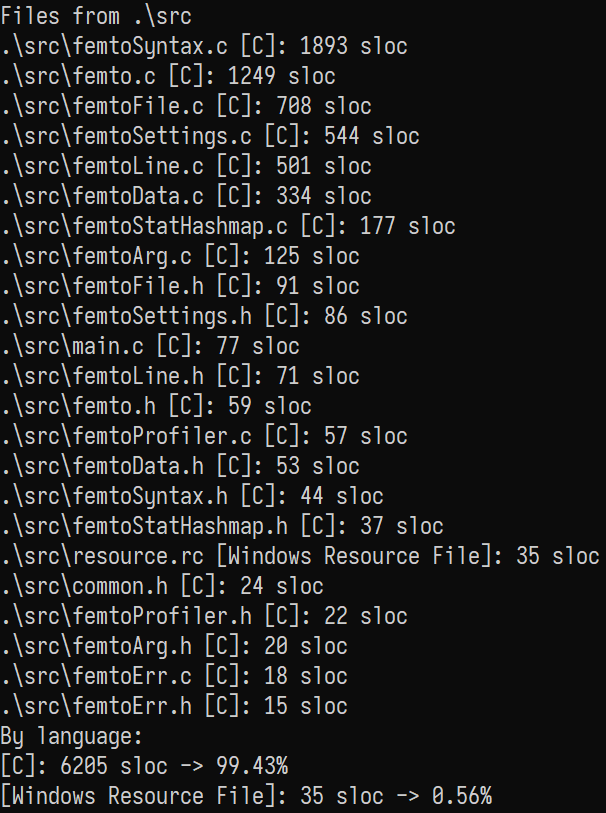
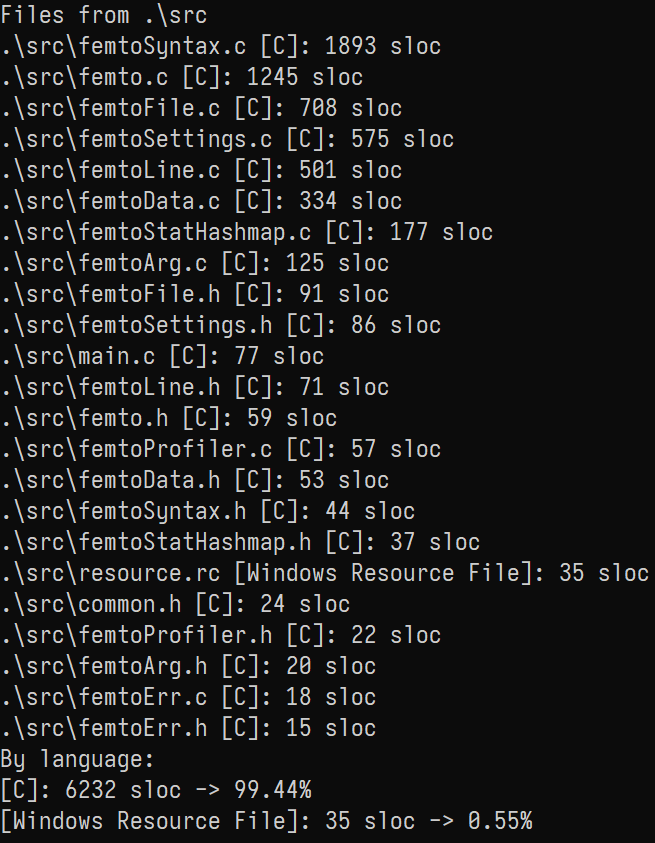
Add background color support

Changed region(s): [[0.0, 0.0, 0.8317, 1.0], [0.8614, 0.6458, 1.0, 0.7073], [0.6832, 0.246, 0.7426, 0.3075]]

diff --git a/src/femtoSettings.c b/src/femtoSettings.c
@@ -375,14 +375,49 @@ static inline uint16_t femtoSettings_checkColor(const jsonObject_t * restrict ob
 
 	bool success;
 	const char * value = jsonValue_getString(attr, &success);
+	// Check for comma
+	const char * comma = strchr(value, (char)',');
+	const size_t commaIdx = (comma == NULL) ? PTRDIFF_MAX : (size_t)(comma - value);
+	size_t charIdx = 0;
+	if (comma != NULL)
+	{
+		charIdx = (size_t)(comma - value) + 1;
+		// Skip whitespace
+		for (; (value[charIdx] != '\0'); ++charIdx)
+		{
+			if ((value[charIdx] != ' ') && (value[charIdx] != '\t') )
+			{
+				break;
+			}
+		}
+		charIdx = (value[charIdx] == '\0') ? 0 : charIdx;
+	}
+
 	if (success && (value != NULL))
 	{
+		bool firstDone = false, secondDone = false;
+		uint8_t ret = 0;
 		// Search through colorNames
 		for (uint8_t i = 0; i < MAX_COLORS; ++i)
 		{
-			if (strcmp(value, colorNames[i]) == 0)
+			if (!firstDone && strncmp(value, colorNames[i], commaIdx) == 0)
 			{
-				return i;
+				if (comma == NULL)
+				{
+					return i;
+				}
+				ret |= i;
+				firstDone = true;
+			}
+			else if ((charIdx != 0) && strcmp(&value[charIdx], colorNames[i]) == 0)
+			{
+				ret |= (uint8_t)(i << 4);
+				secondDone = true;
+			}
+
+			if (firstDone && secondDone)
+			{
+				return ret;
 			}
 		}
 	}

diff --git a/images/test.c b/images/test.c
@@ -5,7 +5,14 @@ int main(int argc, char ** argv)
 	(void)argc;
 	(void)argv;
 	
+	// This is comment
 	printf("Hello, World!\n");
-
+	
+	/* This is a block 
+	
+		comment
+		
+	*/
+	
 	return 0;
 }

diff --git a/README.md b/README.md
@@ -186,6 +186,7 @@ Have a look at the provided [settings file](./settings.json) to get a better und
 # Changelog
 
 * 1.9 (planned)
+	* [x] Background color customization support
 	* [x] Fix lag on status-bar input
 	* [ ] Search support, also search result highlighting
 	* [ ] Proper text copying/pasting support
